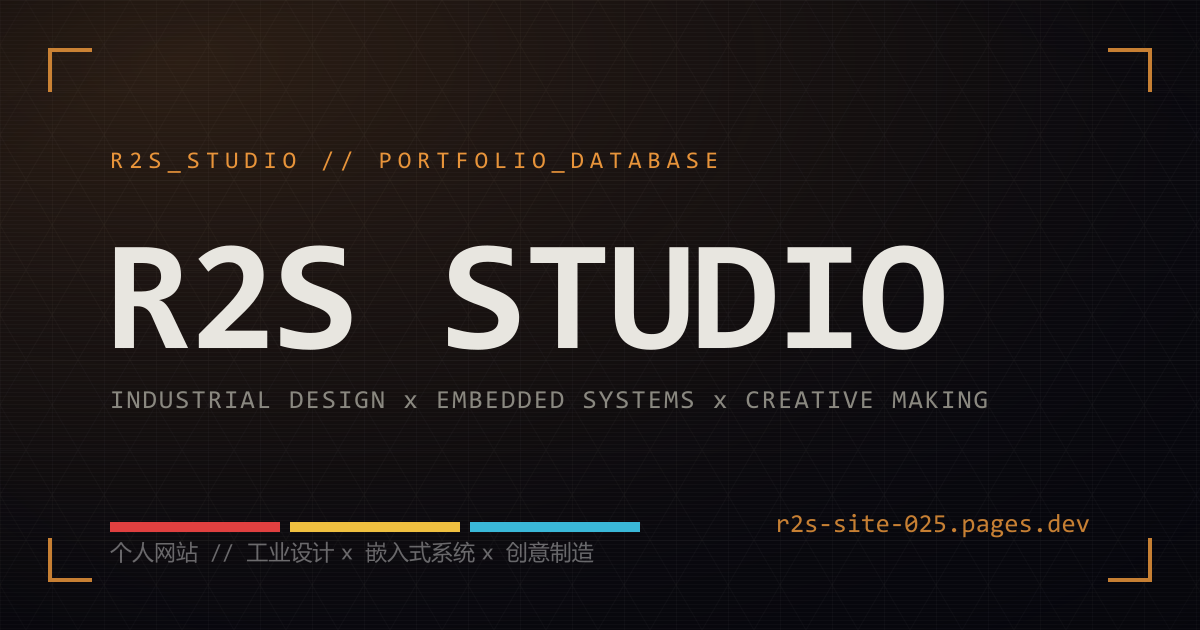
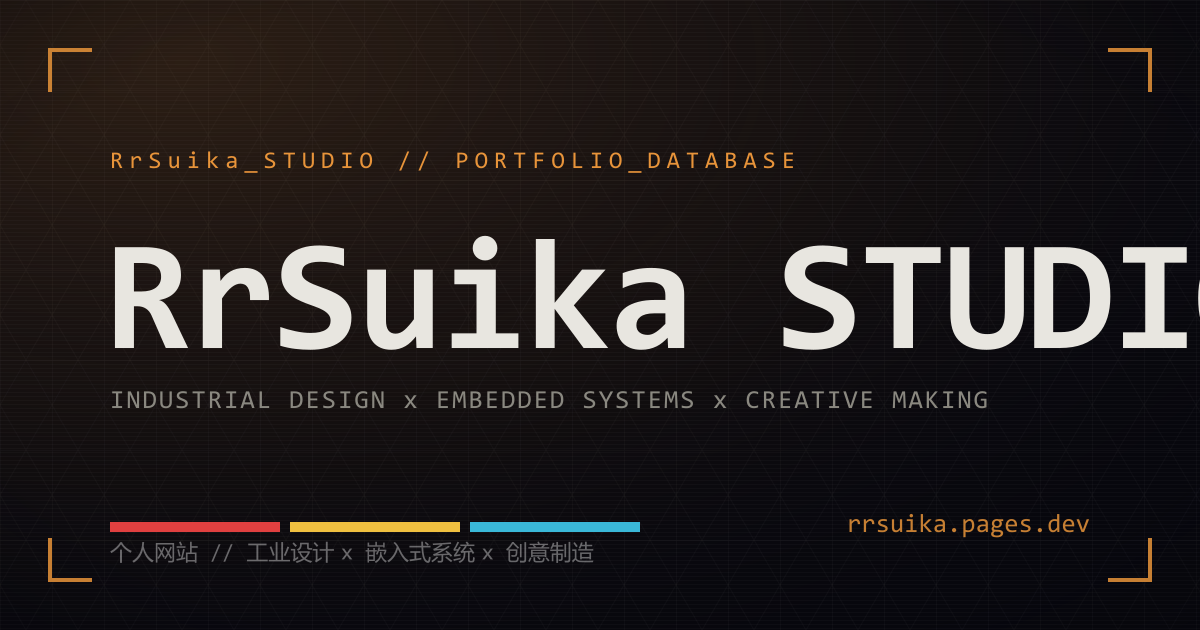
Remove remaining r2s identifiers + regenerate OG card
- localStorage keys r2s-theme/r2s-mobile-notice -> rrsuika-*
- About page terminal lines init_r2s()/初始化_r2s() -> init_rrsuika()
- Docs updated to match
- Regenerated public/og-card.png with RrSuika branding

diff --git a/AI_CONTEXT.md b/AI_CONTEXT.md
@@ -244,7 +244,7 @@ Layout 负责：head 全套（主题守卫内联脚本→防闪烁、charset/vie
 
 ### 6.1 主题契约
 
-- `data-theme` 属性挂在 `<html>` 上（`"dark"` | `"light"`）；`localStorage["r2s-theme"]` 持久化；切换入口 `window.__toggleTheme`（Layout 脚本）+ Navbar 按钮。
+- `data-theme` 属性挂在 `<html>` 上（`"dark"` | `"light"`）；`localStorage["rrsuika-theme"]` 持久化；切换入口 `window.__toggleTheme`（Layout 脚本）+ Navbar 按钮。
 - **首次访问默认 dark**（不跟随 `prefers-color-scheme`）；head 内联守卫脚本在任何绘制前设好 `data-theme`，配套 `html:not([data-theme]) body { visibility: hidden }` 防闪烁。
 - 暗色 token 定义在 `:root`（§1），亮色覆盖在 `:root[data-theme="light"]`（§2，只覆盖值不同的 token；排版/布局/圆角/缓动 token 两主题同值只定义一次）。
 
@@ -304,7 +304,7 @@ Layout 负责：head 全套（主题守卫内联脚本→防闪烁、charset/vie
 | **art 页（冻结）** | `art/index.astro` + `zh/art/index.astro` 各自独立实现：`import.meta.glob(eager)` 扫描 4 个 art 条目文件夹图片（排除 `cover.png`）、硬编码 4 分类（CATEGORIES）+ 按语言作品名（TITLE_MAP）、每行无缝跑马灯（悬停暂停、拖拽 1.5×、点击 lightbox、Esc/←/→/触摸滑动）。**两语言文件实现有差异**（en 用 opacity 动画，zh 用 display 切换） |
 | **about 页动画** | 两个 about 页（en 3977 行 / zh 4274 行，独立文件）：design-process 站台自动轮播（IntersectionObserver 激活，1.5s/步）、capability matrix canvas（8 个绘制函数：3D 环面/CMF 色块/示波器/波纹/DNA 螺旋/矿石传送带/像素网格/软件终端，4.2s 轮播，`define:vars` 注入翻译）、ANNEX 打字机彩蛋 |
 | **背景粒子** | Layout.astro 脚本（参数见 §6.3）；`prefers-reduced-motion` 时隐藏 |
-| **移动端提示** | `#mobile-notice`：sessionStorage `"r2s-mobile-notice"` 记忆关闭；桌面（≥769px）隐藏 |
+| **移动端提示** | `#mobile-notice`：sessionStorage `"rrsuika-mobile-notice"` 记忆关闭；桌面（≥769px）隐藏 |
 | **结构化数据** | Layout head：`WebSite`（每页）；about 页：`Person`（name "RrSuika Studio"、alternateName `["RrS"]`、sameAs GitHub `RrSuika` + pixiv、Rotterdam NL）；详情模板：`TechArticle`（含 `translationOfWork`，§3.2-6） |
 
 ---

diff --git a/CLAUDE.md b/CLAUDE.md
@@ -18,7 +18,7 @@ Manage it with `astro dev stop`, `astro dev status`, `astro dev logs`. Build wit
 
 - **`src/styles/global.css` is the single source of truth** for all design tokens (14 sections), imported once by `Layout.astro` frontmatter.
 - **Token fidelity policy**: every token value was copied 1:1 from the original pre-cleanup styles. When replacing literals, use a token **only if its value is identical in both themes**; otherwise leave the literal. Never invent new colors, never "harmonize" values, never recolor.
-- Theme contract: `data-theme` on `<html>` (dark default), `localStorage["r2s-theme"]`, toggle via `window.__toggleTheme`.
+- Theme contract: `data-theme` on `<html>` (dark default), `localStorage["rrsuika-theme"]`, toggle via `window.__toggleTheme`.
 - **⚠ Hero terminal is temporarily hidden**: `global.css` §14 contains `.hero .terminal { display: none; }` with restore instructions. Deleting that block restores the terminal (element is intact in `Hero.astro`).
 - Background layers (§10): weakened particle canvas (`#neural-canvas`, script in Layout.astro — 140/70 particles, CONNECTION_DIST 140, shadowBlur 8, opacity 0.25 dark / 0.10 light) + hex grid + noise + scanlines (0.28 dark / 0.08 light) + vignette.
 - CJK: `html[lang="zh"]` headings get `letter-spacing: 0; line-height: 1.2` (§13); `.hero h1` is Latin and keeps its display tracking.
